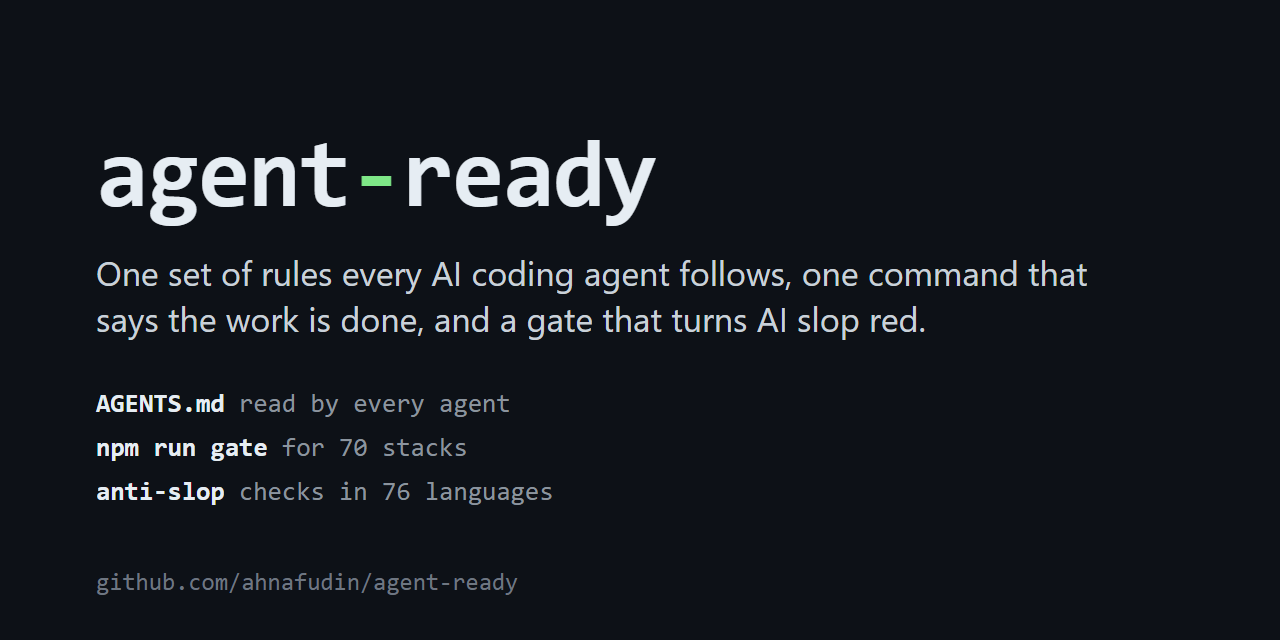
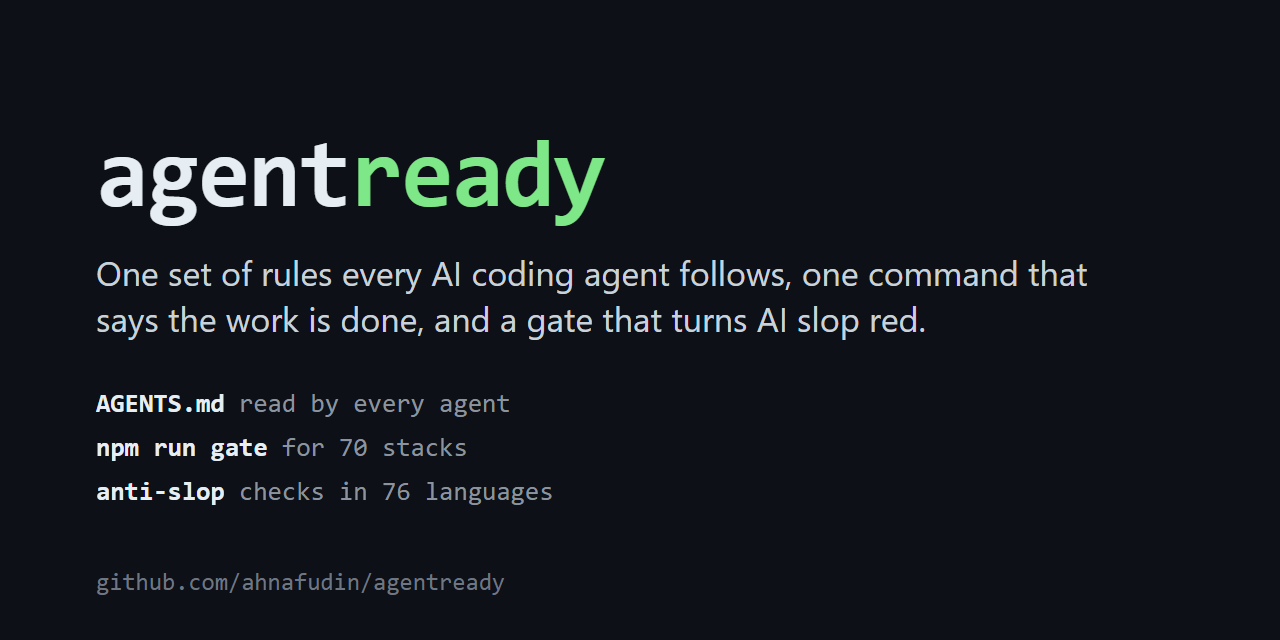
refactor: rename the project to agentready
One name everywhere, without the hyphen: the repository (github.com/ahnafudin/agentready), the npm package (@ahnafudin/agentready; the unscoped name belongs to another package), the CLI command, the Claude Code plugin and marketplace (/agentready:anti-slop), the slop Action path and the social preview. packages/agent-ready and its test move with it.

Changed region(s): [[0.2812, 0.2188, 0.5312, 0.375], [0.3438, 0.875, 0.4062, 0.9375]]

diff --git a/.github/assets/social-preview.html b/.github/assets/social-preview.html
@@ -3,7 +3,7 @@
 <html lang="en">
 <head>
 <meta charset="utf-8">
-<title>agent-ready</title>
+<title>agentready</title>
 <style>
   html, body { margin: 0; width: 1280px; height: 640px; }
   body {
@@ -25,13 +25,13 @@
 </style>
 </head>
 <body>
-  <h1>agent<span>-</span>ready</h1>
+  <h1>agent<span>ready</span></h1>
   <p>One set of rules every AI coding agent follows, one command that says the work is done, and a gate that turns AI slop red.</p>
   <ul>
     <li><b>AGENTS.md</b> read by every agent</li>
     <li><b>npm run gate</b> for 70 stacks</li>
     <li><b>anti-slop</b> checks in 76 languages</li>
   </ul>
-  <footer>github.com/ahnafudin/agent-ready</footer>
+  <footer>github.com/ahnafudin/agentready</footer>
 </body>
 </html>

diff --git a/README.md b/README.md
@@ -1,14 +1,14 @@
 <!-- tooling:readme -->
-# agent-ready
+# agentready
 
 **One set of rules every AI coding agent follows, one command that says the work is done, and a gate that
 turns AI slop red.**
 
-[![gate](https://github.com/ahnafudin/agent-ready/actions/workflows/gate.yml/badge.svg)](https://github.com/ahnafudin/agent-ready/actions/workflows/gate.yml)
-[![release](https://img.shields.io/github/v/release/ahnafudin/agent-ready)](https://github.com/ahnafudin/agent-ready/releases)
-[![license](https://img.shields.io/github/license/ahnafudin/agent-ready)](https://github.com/ahnafudin/agent-ready/blob/main/LICENSE)
+[![gate](https://github.com/ahnafudin/agentready/actions/workflows/gate.yml/badge.svg)](https://github.com/ahnafudin/agentready/actions/workflows/gate.yml)
+[![release](https://img.shields.io/github/v/release/ahnafudin/agentready)](https://github.com/ahnafudin/agentready/releases)
+[![license](https://img.shields.io/github/license/ahnafudin/agentready)](https://github.com/ahnafudin/agentready/blob/main/LICENSE)
 
-![A four-line comment fails npm run slop; cut to one line, it passes.](https://raw.githubusercontent.com/ahnafudin/agent-ready/main/.github/assets/demo.svg)
+![A four-line comment fails npm run slop; cut to one line, it passes.](https://raw.githubusercontent.com/ahnafudin/agentready/main/.github/assets/demo.svg)
 
 A project starter that makes a new repo **ready for AI coding agents** — structure and contracts only, no stack
 lock-in. Copy it, fill the placeholders, and every coding session starts with the right rules, the
@@ -37,13 +37,13 @@ Here the rules live in `docs/anti-slop/`, and the one a machine can check runs f
 | `AGENTS.md` | **Canonical rules, read by every agent.** Session working rules (docs-by-route, read-before-write, finish-100%, verify-before-claiming, no dead code, one-question rule, worktree isolation, completion report) + placeholders to fill per project. |
 | Per-tool pointers | `CLAUDE.md` (`@AGENTS.md` import + Claude-only extras) plus **generated** stubs for Copilot · Gemini CLI · Cursor · Windsurf · Cline/Roo · Junie · Aider. Each restates the non-negotiables inline, so an agent that ignores file references is still bound by them. **Coexists with other tools that write to the same files:** a region fenced off between `<!-- name:start -->` / `<!-- name:end -->` or `<!-- BEGIN name -->` / `<!-- END name -->` markers (bd writes one, and every rules installer has its own) is carried across instead of overwritten — this repo owns the generated part of those files, not the whole file. |
 | **Framework registry** | `scripts/stacks.json` — detection markers, gate commands, `.gitignore` lines, core-layer rule and conventions per framework. Adding one is **a JSON row, no code change**. Schema-validated by the test suite. |
-| **`npm run gate`** | One command in every language: lint → typecheck → test → build, stopping at the first failure. Polyglot repos (Tauri, a Next.js + FastAPI monorepo) run both sides. The first `stack:apply` in a renamed project swaps agent-ready's own gates for your framework's; after that they are yours. |
+| **`npm run gate`** | One command in every language: lint → typecheck → test → build, stopping at the first failure. Polyglot repos (Tauri, a Next.js + FastAPI monorepo) run both sides. The first `stack:apply` in a renamed project swaps agentready's own gates for your framework's; after that they are yours. |
 | `docs/STACK.md` | **Generated** per project: which framework was detected, where heavy logic belongs, the exact gate commands, framework conventions. The brief a fresh agent reads instead of guessing. |
 | `docs/` skeletons | `PRD` · `ARCHITECTURE` · `FEATURES` · `TASKS` · `ROADMAP` · `VERSIONING` — thin frames, not content. |
 | **Archive contract** | `docs/archive/STATUS_ARCHIVE.md` + `TASKS_ARCHIVE.md`: when work merges, its full story moves here and `AGENTS.md` keeps ≤ 1 bullet per domain — the always-loaded context never bloats. |
 | **Read guard** | `scripts/read-guard.mjs`, a Claude Code hook that denies reading a whole file over 400 lines without an offset/limit window, and says how to read the part you need instead. Whole files read to find one function are the largest single entries in a long session's context, and nothing takes them back out. |
 | **Anti-slop** | Rules for code, UI, copy and reports in `docs/anti-slop/`, enforced wherever a machine can check them: `npm run gate` runs a comment check first, in every language the registry knows, and in Claude Code `slop-guard` names a long comment right after the edit. |
-| **Beads issue tracker** | Optional `bd` wiring with rules reconciled for this workflow: bd = cross-session issues, `docs/TASKS.md` = roadmap checklist, no auto-push. Silent when bd is not installed, and refuses to initialise until you rename the project — bd commits an identity, which must not ship from agent-ready. |
+| **Beads issue tracker** | Optional `bd` wiring with rules reconciled for this workflow: bd = cross-session issues, `docs/TASKS.md` = roadmap checklist, no auto-push. Silent when bd is not installed, and refuses to initialise until you rename the project — bd commits an identity, which must not ship from agentready. |
 | **Auto-versioning** | A conventional-commit hook bumps semver in `package.json` and syncs **every other manifest that exists** — inside the same commit. |
 | **No agent attribution** | Three layers, because one bad commit is permanent — it puts a bot in your GitHub contributor list, removable only by rewriting published history. `.claude/settings.json` stops Claude Code adding `Co-Authored-By`, a "Generated with" line or a session link, and arms the hooks at session start; `.githooks/commit-msg` strips them whatever tool wrote them — Cursor, Copilot, or one that does not exist yet; and `.github/workflows/attribution.yml` fails the build if any commit carries them anyway, which is the layer that covers a fresh clone where no hook is installed yet. The rule is **one author per commit**: every `Co-Authored-By` line goes, not only an agent's, because separating the two was tried by name (which deleted a real person whose address contained "amp") and by bot address (a list that must grow with every new agent, where one miss is permanent). Credit collaborators in the commit body. |
 | `scripts/setup.mjs` | One-shot, idempotent, ordered bootstrap (order matters — see below). |
@@ -120,7 +120,7 @@ Deliberately **not** touched, because they are release counters rather than semv
 
 ```bash
 # 1. copy it into a new project with a history of its own (nothing links back here)
-git clone --depth 1 https://github.com/ahnafudin/agent-ready.git my-project
+git clone --depth 1 https://github.com/ahnafudin/agentready.git my-project
 cd my-project
 rm -rf .git && git init
 
@@ -137,12 +137,12 @@ Then open any AI coding tool and type your task — the rules ride along automat
 
 ## Take it in parts
 
-**Only the hooks, in Claude Code** — the read guard, the slop guard and `/agent-ready:anti-slop`,
+**Only the hooks, in Claude Code** — the read guard, the slop guard and `/agentready:anti-slop`,
 in any project, without copying anything:
 
 ```text
-/plugin marketplace add ahnafudin/agent-ready
-/plugin install agent-ready@agent-ready
+/plugin marketplace add ahnafudin/agentready
+/plugin install agentready@agentready
 ```
 
 **Only the comment check, in any repository's CI** — one annotation per long comment on the pull
@@ -150,7 +150,7 @@ request. `paths` is optional; without it every tracked file is checked:
 
 ```yaml
 - uses: actions/checkout@v7
-- uses: ahnafudin/agent-ready/slop@main   # pin a release tag for a stable check
+- uses: ahnafudin/agentready/slop@main   # pin a release tag for a stable check
 ```
 
 ## Commands
@@ -191,24 +191,24 @@ Claude hooks → dolt remote**, because:
 - bd is optional: when it is missing, steps 5–7 are skipped and the rest still completes.
 - The Dolt sync remote lives in the local DB, not in git — it must be added per machine.
 
-## What happens to a copy of agent-ready
+## What happens to a copy of agentready
 
 The first `npm run setup` in a **renamed** project personalises it, once:
 
 | Scaffolding | Becomes |
 |---|---|
-| version `0.2.x` (agent-ready's release history) | `0.1.0` |
+| version `0.2.x` (agentready's release history) | `0.1.0` |
 | this README | a README about your project; this one is kept as `docs/TOOLING.md` |
-| `tooling.gates` (commands that maintain agent-ready) | your framework's gates, from the registry |
+| `tooling.gates` (commands that maintain agentready) | your framework's gates, from the registry |
 | the `test` npm script (the tooling's own suite) | free for your project; the suite stays at `test:tooling` |
 | no beads workspace | initialised with YOUR issue prefix and remote |
-| agent-ready's MIT `LICENSE` | kept as `docs/TOOLING-LICENSE` beside the tooling it covers; the root is yours to license |
-| `CONTRIBUTING.md` (how to contribute to agent-ready) | removed |
-| what serves agent-ready's own repository: code of conduct, security policy, issue and PR templates, README assets, the `verify-stacks` and `release` workflows | removed |
+| agentready's MIT `LICENSE` | kept as `docs/TOOLING-LICENSE` beside the tooling it covers; the root is yours to license |
+| `CONTRIBUTING.md` (how to contribute to agentready) | removed |
+| what serves agentready's own repository: code of conduct, security policy, issue and PR templates, README assets, the `verify-stacks` and `release` workflows | removed |
 
 All of it is keyed off `tooling.pristine` and happens exactly once. Nothing you have written is
 ever replaced. `scripts/tests/derived-project.test.mjs` builds a copy, renames it, bootstraps it and
-runs this whole suite inside it — every one of those rows is a bug agent-ready shipped until a
+runs this whole suite inside it — every one of those rows is a bug agentready shipped until a
 real generated app exposed it.
 
 ## Two machines?
@@ -225,13 +225,13 @@ GEMINI.md  CONVENTIONS.md  .cursor/  .windsurf/  .clinerules/  .junie/  .github/
                        generated pointers — do not hand-edit
 .aider.conf.yml        makes Aider read CONVENTIONS.md, which it loads only when told to
 SETUP.md               fill-in checklist · second-machine checklist
-CONTRIBUTING.md  LICENSE  how to contribute · MIT (both leave a project made from agent-ready)
-CODE_OF_CONDUCT.md  SECURITY.md  community rules · private vulnerability reports (agent-ready only)
+CONTRIBUTING.md  LICENSE  how to contribute · MIT (both leave a project made from agentready)
+CODE_OF_CONDUCT.md  SECURITY.md  community rules · private vulnerability reports (agentready only)
 docs/
   STACK.md             GENERATED per project: framework, core layer, gate commands
   VERIFYING.md         how an entry earns `verified`, and what that has caught
-  TOOLING.md           this README, once a project has been made from agent-ready
-  TOOLING-LICENSE      agent-ready's licence, likewise
+  TOOLING.md           this README, once a project has been made from agentready
+  TOOLING-LICENSE      agentready's licence, likewise
   anti-slop/           rules against AI slop: code · ui · copy · human
   PRD.md  ARCHITECTURE.md  FEATURES.md  TASKS.md  ROADMAP.md  VERSIONING.md
   archive/             STATUS_ARCHIVE.md · TASKS_ARCHIVE.md  (the anti-bloat contract)
@@ -260,22 +260,22 @@ scripts/
 .github/workflows/
   attribution.yml      fails the build if any commit carries AI-agent attribution
   gate.yml             the same `npm run gate`, on Linux, Windows and macOS
-  verify-stacks.yml    scaffolds real projects and verifies registry entries (agent-ready only)
-  release.yml          tags and releases every version main reaches, then the npm CLI (agent-ready only)
-  slop-action.yml      runs the slop Action against this repository (agent-ready only)
-.github/ISSUE_TEMPLATE/  pull_request_template.md  assets/   (agent-ready only)
-.claude-plugin/        this repository as a Claude Code plugin and marketplace (agent-ready only)
-slop/                  the comment check as a GitHub Action (agent-ready only)
-packages/agent-ready/  the npm CLI: `init` and `add` (agent-ready only)
+  verify-stacks.yml    scaffolds real projects and verifies registry entries (agentready only)
+  release.yml          tags and releases every version main reaches, then the npm CLI (agentready only)
+  slop-action.yml      runs the slop Action against this repository (agentready only)
+.github/ISSUE_TEMPLATE/  pull_request_template.md  assets/   (agentready only)
+.claude-plugin/        this repository as a Claude Code plugin and marketplace (agentready only)
+slop/                  the comment check as a GitHub Action (agentready only)
+packages/agentready/   the npm CLI: `init` and `add` (agentready only)
 ```
 
 ## Contributing
 
 Fork, branch, `npm run gate`, pull request. The full guide — and the invariants the test suite
-protects — is [CONTRIBUTING.md](https://github.com/ahnafudin/agent-ready/blob/main/CONTRIBUTING.md).
+protects — is [CONTRIBUTING.md](https://github.com/ahnafudin/agentready/blob/main/CONTRIBUTING.md).
 
 ## License
 
-[MIT](https://github.com/ahnafudin/agent-ready/blob/main/LICENSE) © 2026 ahnafudin. A project
-made from agent-ready keeps that notice in `docs/TOOLING-LICENSE`, beside the tooling it
+[MIT](https://github.com/ahnafudin/agentready/blob/main/LICENSE) © 2026 ahnafudin. A project
+made from agentready keeps that notice in `docs/TOOLING-LICENSE`, beside the tooling it
 covers, and chooses its own licence.

diff --git a/SETUP.md b/SETUP.md
@@ -1,6 +1,6 @@
 # SETUP
 
-## First machine (new project from agent-ready)
+## First machine (new project from agentready)
 
 ```bash
 npm install          # activates the auto-version git hook (postinstall)
@@ -23,8 +23,8 @@ If your framework is missing, add one entry to `scripts/stacks.json` (see the ex
 `README.md`) and run `npm run stack:validate`. No code change is needed — and please keep
 `"verified": false` until you have actually run the commands.
 
-> Agent-ready ships `tooling.gates` marked `"pristine": true` — those are the commands
-> agent-ready uses to maintain itself. The first `npm run stack:apply` in a renamed project replaces
+> agentready ships `tooling.gates` marked `"pristine": true` — those are the commands
+> agentready uses to maintain itself. The first `npm run stack:apply` in a renamed project replaces
 > them with your framework's and drops the marker. After that they are yours: nothing overwrites
 > them again unless you ask (`npm run stack:reapply`).
 
@@ -41,19 +41,19 @@ Then fill the placeholders — search for `TODO:fill`:
 - [ ] `package.json` — **`name` first, before anything else.** While it is still `my-project`,
       `npm run setup` deliberately REFUSES to run `bd init`: bd bakes the name into the issue
       prefix and commits `.beads/` (a project_id and the Dolt sync remote), so initializing an
-      unrenamed copy would ship agent-ready's identity to every project made from it.
+      unrenamed copy would ship agentready's identity to every project made from it.
       Non-JS project? Keep this file anyway — it is the TOOLING
       manifest (setup, gates, versioning); add your language's real manifest beside it
       (`composer.json`, `pyproject.toml`, `go.mod` + a root `VERSION` file — all auto-synced,
       see `docs/VERSIONING.md`)
-- [ ] `README.md` — `npm run setup` replaces agent-ready's README with a stub about your project
-      (agent-ready's own is kept at `docs/TOOLING.md`); fill in the description
+- [ ] `README.md` — `npm run setup` replaces agentready's README with a stub about your project
+      (agentready's own is kept at `docs/TOOLING.md`); fill in the description
 - [ ] `.env.example` — every variable the app reads (values stay empty; it is the contract)
 - [ ] `.github/workflows/gate.yml` — add your language toolchain step
 - [ ] `docs/PRD.md` — problem, goals, scope, risks, guardrails
 - [ ] `docs/ARCHITECTURE.md` — layers + first decisions
 - [ ] `docs/TASKS.md` — phase 1 checklist
-- [ ] A `LICENSE` file for your project — `npm run setup` moves agent-ready's MIT licence to
+- [ ] A `LICENSE` file for your project — `npm run setup` moves agentready's MIT licence to
       `docs/TOOLING-LICENSE` (it covers the copied tooling), so the root is yours to choose
 - [ ] Delete the SETUP NOTE at the top of `AGENTS.md`
 
@@ -76,11 +76,11 @@ Never hand-edit `GEMINI.md`, `CONVENTIONS.md`, `.cursor/rules/`, `.windsurf/rule
 `.junie/` or `.github/copilot-instructions.md` — your changes are overwritten on the next sync.
 Commit the generated files: a fresh clone opened in Cursor must already have them.
 
-## Working on agent-ready itself (not a project made from it)
+## Working on agentready itself (not a project made from it)
 
 Leave `package.json`'s `name` as `my-project` and setup will keep skipping `bd init` — which is
-what you want: agent-ready must never ship a `.beads/` workspace. If you want issue tracking for
-the agent-ready repo itself, run `bd init` by hand and keep `.beads/` out of git locally
+what you want: agentready must never ship a `.beads/` workspace. If you want issue tracking for
+the agentready repo itself, run `bd init` by hand and keep `.beads/` out of git locally
 (`echo '.beads/' >> .git/info/exclude` — `.git/info/exclude` is not committed, so a real project
 still commits its own `.beads/config.yaml` for the second-machine flow).
 
@@ -123,7 +123,7 @@ What git already carries: `AGENTS.md` + the generated pointer files, docs + arch
 `.claude/settings.json` hooks, `.beads/` config + git-hooks, `.githooks/`, `package.json` gates.
 What is **per-machine**: the beads local DB, the Dolt sync remote, `core.hooksPath`, your SSH
 config, and your agent's auto-memory (it does NOT sync — anything cross-machine-critical belongs in
-`AGENTS.md`/docs, which is the whole point of agent-ready).
+`AGENTS.md`/docs, which is the whole point of agentready).
 
 ```bash
 git clone <origin> && cd <project>
@@ -149,18 +149,18 @@ npm run setup && bd dolt pull
 (`npm run setup` passes `--skip-agents` to `bd init`, so a normal run cannot overwrite `AGENTS.md`.
 The cleanup above only matters if you ran `bd init` by hand.)
 
-## Machine-level agent tooling (deliberately NOT in agent-ready)
+## Machine-level agent tooling (deliberately NOT in agentready)
 
 Token/behavior optimizers — e.g. **rtk** (compresses CLI output before it enters context),
 **caveman** (terse response style), **ponytail** (write-less-code bias) — are all **per-machine**
 installs (global hooks/plugins in `~/.claude`), not per-project files. They compose with
-agent-ready but do not belong in it: a repo must work on a machine that has none of them. Install/skip
+agentready but do not belong in it: a repo must work on a machine that has none of them. Install/skip
 them per machine to taste. One warning if you use caveman: never run `/caveman-compress` on
 `AGENTS.md` — it rewrites lossily and the contracts there are load-bearing.
 
 One context saver does ship: `scripts/read-guard.mjs`, a Claude Code hook that denies reading a
 whole file over 400 lines without an offset/limit window (details in `CLAUDE.md`). It is the
-exception because it depends on nothing agent-ready does not already require — Node — so the rule
+exception because it depends on nothing agentready does not already require — Node — so the rule
 above still holds: a machine with nothing installed gets it, and so does a cloud session, which
 never sees `~/.claude`. Installing the same guard globally as well is harmless: both run and agree.
 

diff --git a/CONTRIBUTING.md b/CONTRIBUTING.md
@@ -1,5 +1,5 @@
 <!-- tooling:contributing -->
-# Contributing to agent-ready
+# Contributing to agentready
 
 Thank you for helping. People start their own projects from a copy of this repository, and
 improvements come back here through a fork and a pull request.
@@ -38,7 +38,7 @@ improvements come back here through a fork and a pull request.
 `npm run gate` validates the registry against its schema, checks that the generated pointer files
 are in sync, and runs the whole suite (`node --test`, zero dependencies): every version-manifest
 planner, every detection rule, the commit-msg hook, the documented commands themselves, and a
-simulated project built from agent-ready.
+simulated project built from agentready.
 
 The invariants those tests protect, which are easy to break by accident:
 
@@ -49,7 +49,7 @@ The invariants those tests protect, which are easy to break by accident:
 - a polyglot repo must report **both** stacks, not just the loudest one;
 - every pointer file must restate the non-negotiables inline, not merely link to `AGENTS.md`;
 - no doc may print an `npm run <script> --flag` form that npm will swallow;
-- nothing that belongs to agent-ready may survive into a project made from it — the simulated
+- nothing that belongs to agentready may survive into a project made from it — the simulated
   project is the test for that.
 
 Two more rules without a test of their own:
@@ -57,7 +57,7 @@ Two more rules without a test of their own:
 - **Keep the tooling dependency-free.** Node's standard library only, so a copy works anywhere Node
   22+ does.
 - **Keep other people's product names out of the source.** Naming them reads as an endorsement or a
-  comparison. `bd` is the exception, because it ships with agent-ready.
+  comparison. `bd` is the exception, because it ships with agentready.
 
 ## License
 

diff --git a/packages/agentready/README.md b/packages/agentready/README.md
@@ -1,19 +1,19 @@
-# agent-ready
+# agentready
 
 Start a repo that AI coding agents follow, or add that tooling to a repo you already have: one
 `AGENTS.md` every agent reads, one `npm run gate` for any of 70 stacks, and anti-slop checks that
 fail the gate.
 
 ```bash
-npx @ahnafudin/agent-ready init my-project   # a new project, with a history of its own
-npx @ahnafudin/agent-ready add               # into the repo in the current directory; your files stay
+npx @ahnafudin/agentready init my-project   # a new project, with a history of its own
+npx @ahnafudin/agentready add               # into the repo in the current directory; your files stay
 ```
 
 Then `npm install` and `npm run setup`. `add` copies only what is missing: a file you already have
 (`AGENTS.md`, `.gitignore`, a workflow) is kept and listed, and npm scripts are added without
 replacing any of yours.
 
-Both commands fetch the agent-ready release that matches the CLI's version. Git and Node 22 or later
+Both commands fetch the agentready release that matches the CLI's version. Git and Node 22 or later
 are required.
 
-Source, docs and issues: https://github.com/ahnafudin/agent-ready
+Source, docs and issues: https://github.com/ahnafudin/agentready

diff --git a/.claude/commands/anti-slop.md b/.claude/commands/anti-slop.md
@@ -4,7 +4,7 @@ description: Review the current changes against the anti-slop rules
 
 Review the uncommitted changes (`git diff HEAD` plus untracked files) against `docs/anti-slop/`.
 Read only the rule files for the areas the changes touch: `code.md`, `ui.md`, `copy.md`, `human.md`.
-If this repository has no `docs/anti-slop/`, read them at https://github.com/ahnafudin/agent-ready/tree/main/docs/anti-slop.
+If this repository has no `docs/anti-slop/`, read them at https://github.com/ahnafudin/agentready/tree/main/docs/anti-slop.
 
 Report each problem on one line as `file:line — rule — fix`, most serious first. Change nothing.
 If there is nothing to fix, say so in one line.

diff --git a/AGENTS.md b/AGENTS.md
@@ -198,7 +198,7 @@ bd close <id>           # complete work
 - **Worktrees:** every git worktree automatically shares the main repo's beads DB (no setup).
   Embedded Dolt is single-writer — serialized agents are fine; run `bd dolt start` (server mode)
   only if multiple agents must write in parallel.
-- **bd is optional.** If it is not installed, everything else in agent-ready still works —
+- **bd is optional.** If it is not installed, everything else in agentready still works —
   do not block on it, and do not install it unasked.
 
 **Architecture in one line:** issues live in a local Dolt DB; sync uses `refs/dolt/data` on your git

diff --git a/CLAUDE.md b/CLAUDE.md
@@ -29,7 +29,7 @@ These use Claude Code features other agents do not have. Everything else is in `
   shows what the session is doing at a glance.
 - **Memory:** Claude Code's auto-memory does NOT sync between machines. Anything
   cross-machine-critical belongs in `AGENTS.md` or `docs/` — which is the whole point of
-  agent-ready.
+  agentready.
 - **Hooks:** `.claude/settings.json` runs `node scripts/bd-prime.mjs` on SessionStart and
   PreCompact. That wrapper is deliberately silent when `bd` is not installed, so a machine without
   beads does not open every session with an error sitting in context.

diff --git a/docs/VERIFYING.md b/docs/VERIFYING.md
@@ -182,7 +182,7 @@ fell through into the positional arguments. Both forms now work, and a mistyped
 flag is refused rather than ignored.
 
 Looking for the same shape elsewhere found it in the one command that writes
-files. **`stacks.mjs apply ../my-app` configured agent-ready instead.** The
+files. **`stacks.mjs apply ../my-app` configured agentready instead.** The
 `apply()` function had always taken a root; the CLI simply never passed the
 directory it was given. `detect` did accept one, which is what made the pair look
 symmetrical and the omission invisible — and every test fixture manufactured a

diff --git a/docs/VERSIONING.md b/docs/VERSIONING.md
@@ -1,7 +1,7 @@
 # Versioning
 
 Semantic versioning (MAJOR.MINOR.PATCH). **`package.json` is the single source of truth** (it exists
-in every copy of agent-ready as the tooling manifest, whatever the app language);
+in every copy of agentready as the tooling manifest, whatever the app language);
 `scripts/version.mjs` propagates it to every optional manifest that exists in the repo.
 
 Writes are targeted regex replacements — never a JSON/TOML reparse and reformat — so a bump touches

diff --git a/SECURITY.md b/SECURITY.md
@@ -2,7 +2,7 @@
 
 ## Supported versions
 
-Only the latest release gets fixes. A project made from agent-ready owns its copy of the tooling, so
+Only the latest release gets fixes. A project made from agentready owns its copy of the tooling, so
 update that copy from the latest release when a fix lands.
 
 ## Reporting a vulnerability
